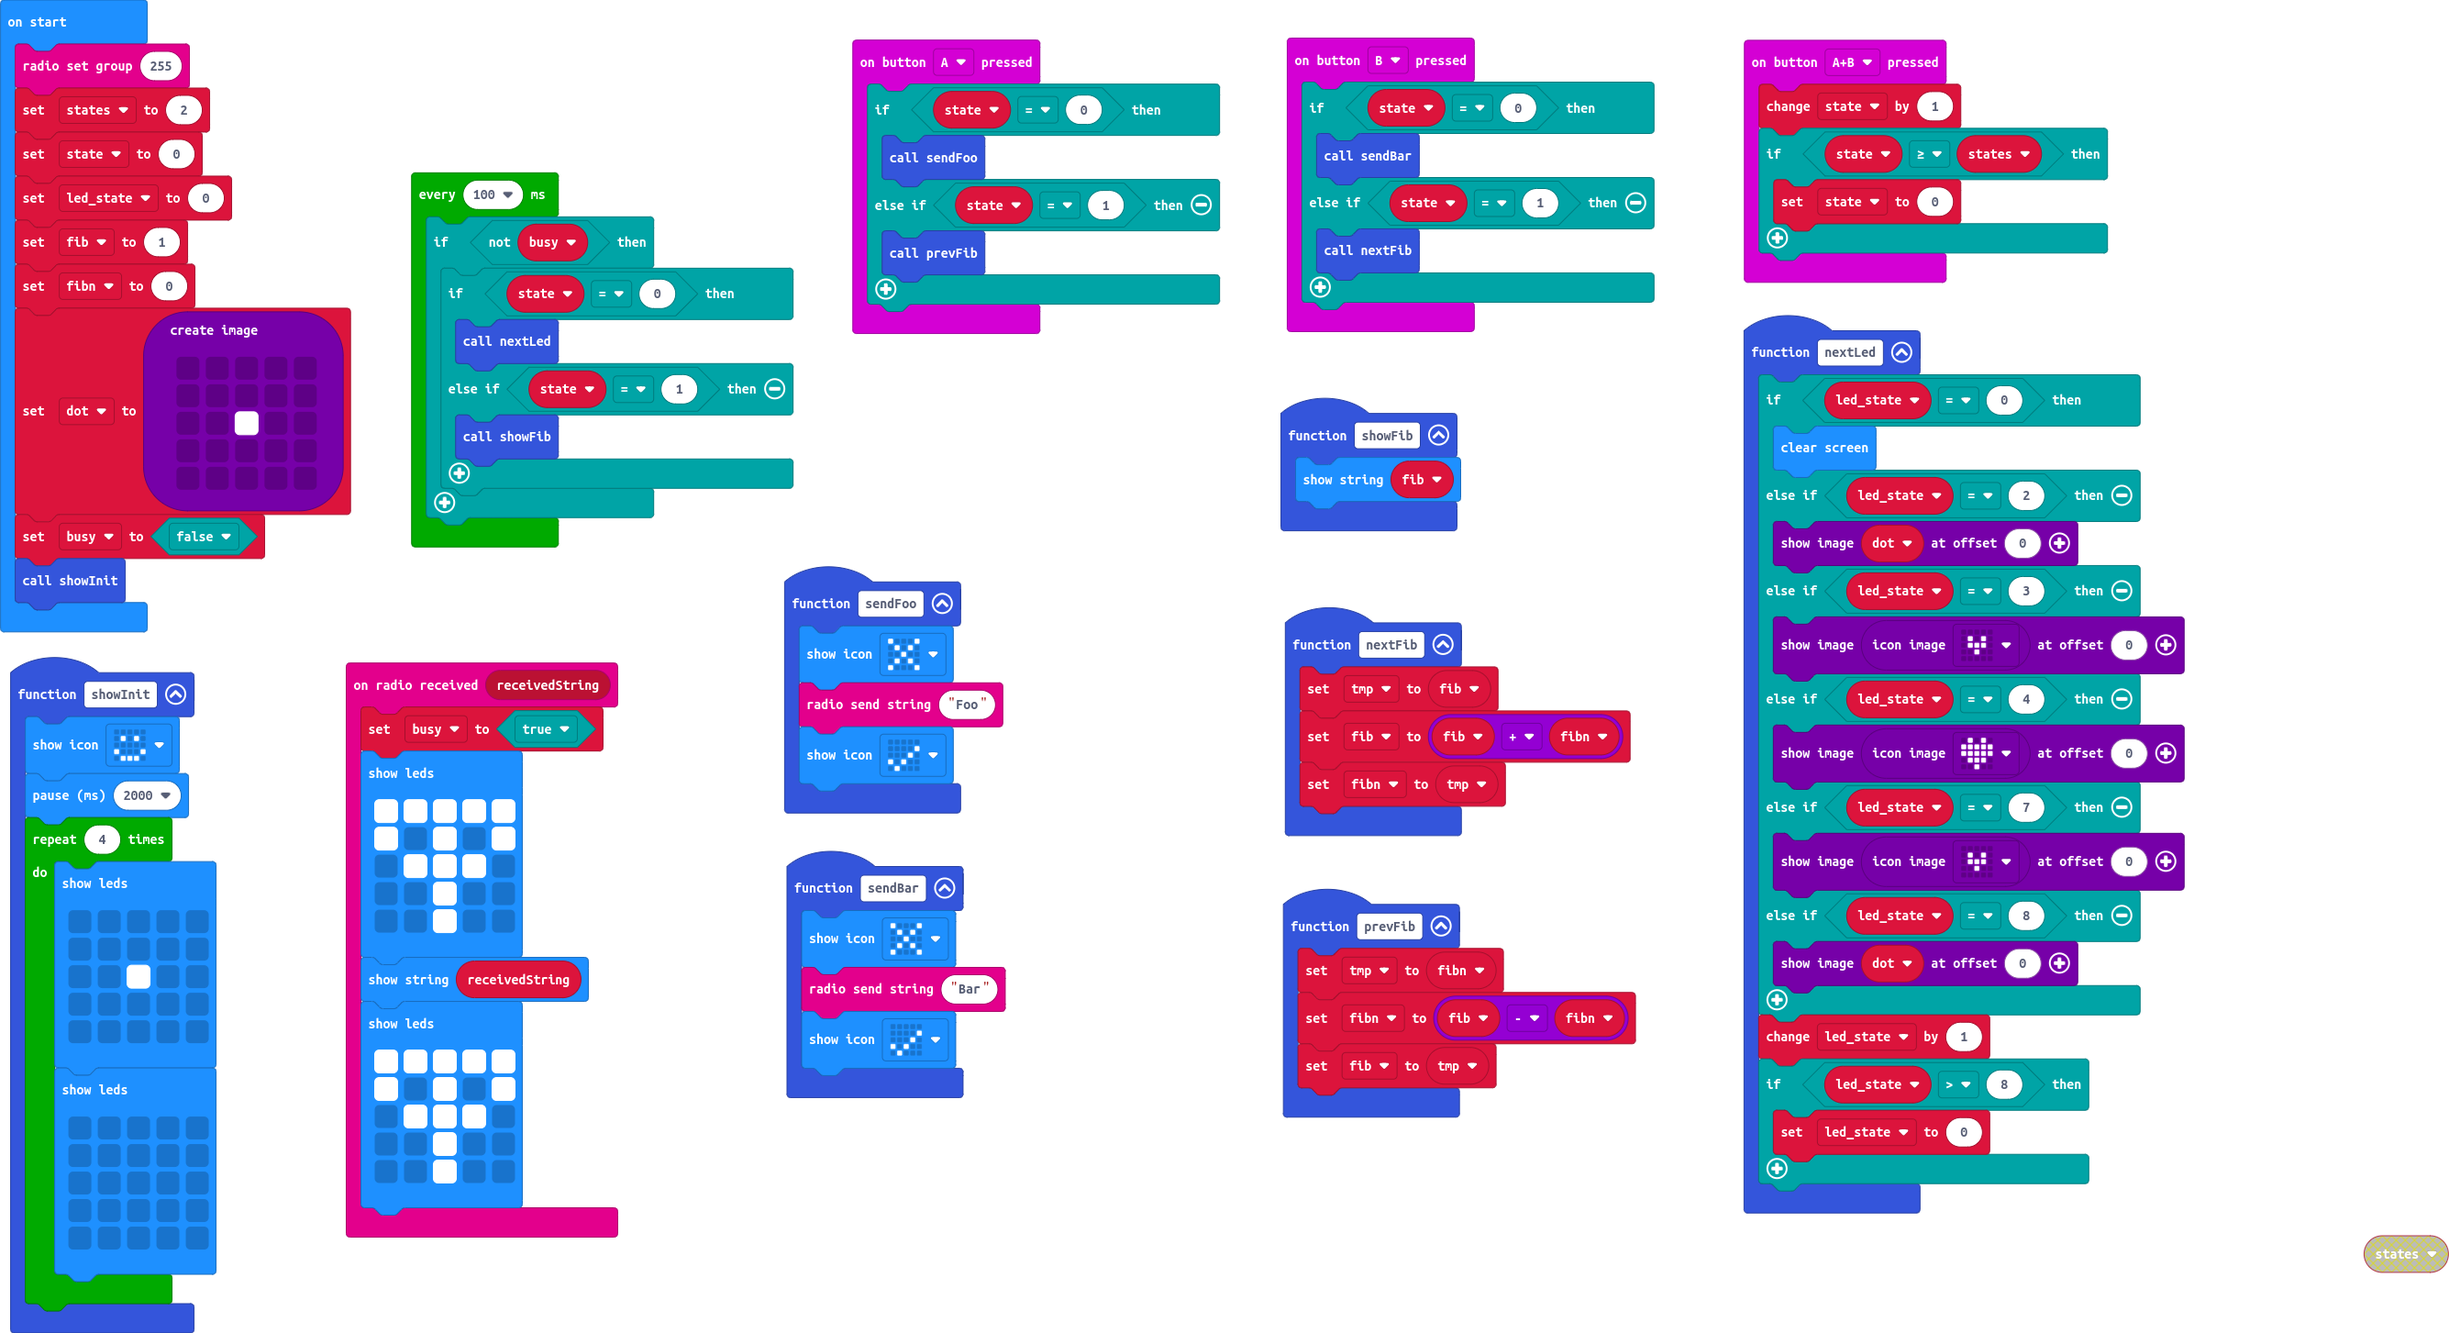
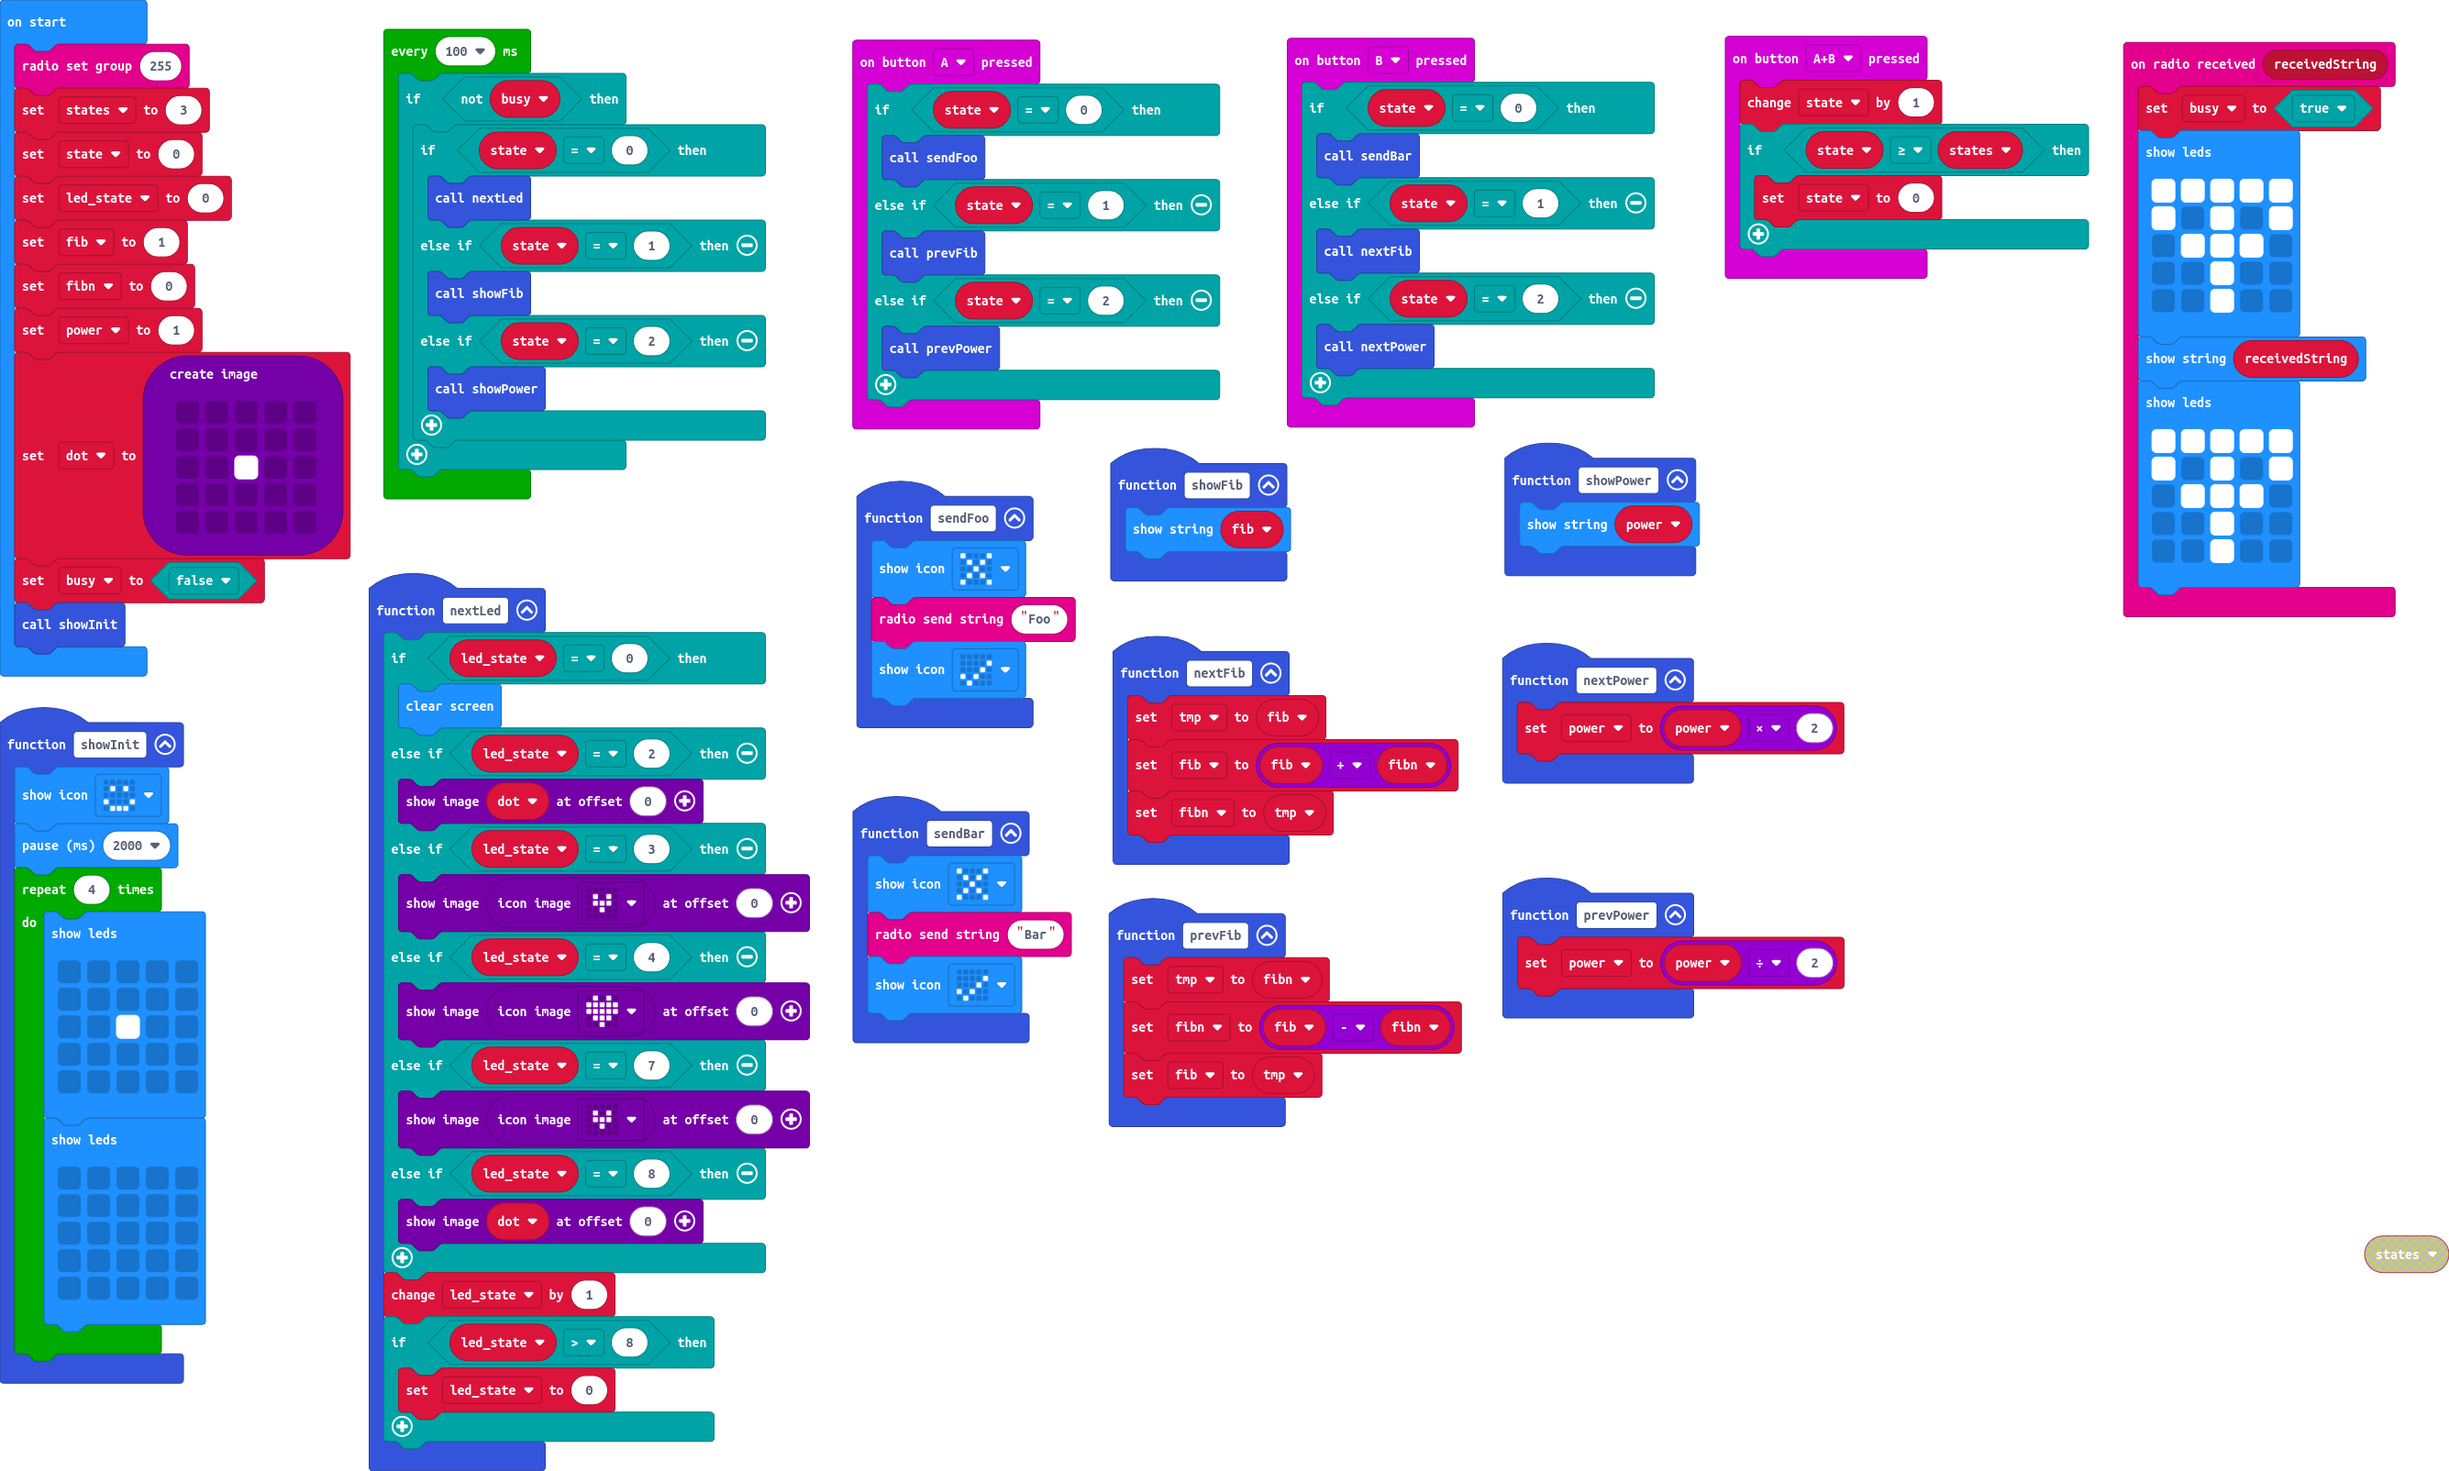
Add powers of two

diff --git a/main.ts b/main.ts
@@ -32,8 +32,13 @@ input.onButtonPressed(Button.A, function () {
         sendFoo()
     } else if (state == 1) {
         prevFib()
+    } else if (state == 2) {
+        prevPower()
     }
 })
+function nextPower () {
+    power = power * 2
+}
 function showInit () {
     basic.showIcon(IconNames.Happy)
     basic.pause(2000)
@@ -53,6 +58,9 @@ function showInit () {
             . . . . .
             `)
     }
+}
+function showPower () {
+    basic.showString("" + (power))
 }
 input.onButtonPressed(Button.AB, function () {
     state += 1
@@ -83,6 +91,8 @@ input.onButtonPressed(Button.B, function () {
         sendBar()
     } else if (state == 1) {
         nextFib()
+    } else if (state == 2) {
+        nextPower()
     }
 })
 function showFib () {
@@ -98,20 +108,25 @@ function nextFib () {
     fib = fib + fibn
     fibn = tmp
 }
+function prevPower () {
+    power = power / 2
+}
 let tmp = 0
 let busy = false
 let dot: Image = null
+let power = 0
 let fibn = 0
 let fib = 0
 let led_state = 0
 let state = 0
 let states = 0
 radio.setGroup(255)
-states = 2
+states = 3
 state = 0
 led_state = 0
 fib = 1
 fibn = 0
+power = 1
 dot = images.createImage(`
     . . . . .
     . . . . .
@@ -127,6 +142,8 @@ loops.everyInterval(100, function () {
             nextLed()
         } else if (state == 1) {
             showFib()
+        } else if (state == 2) {
+            showPower()
         }
     }
 })
